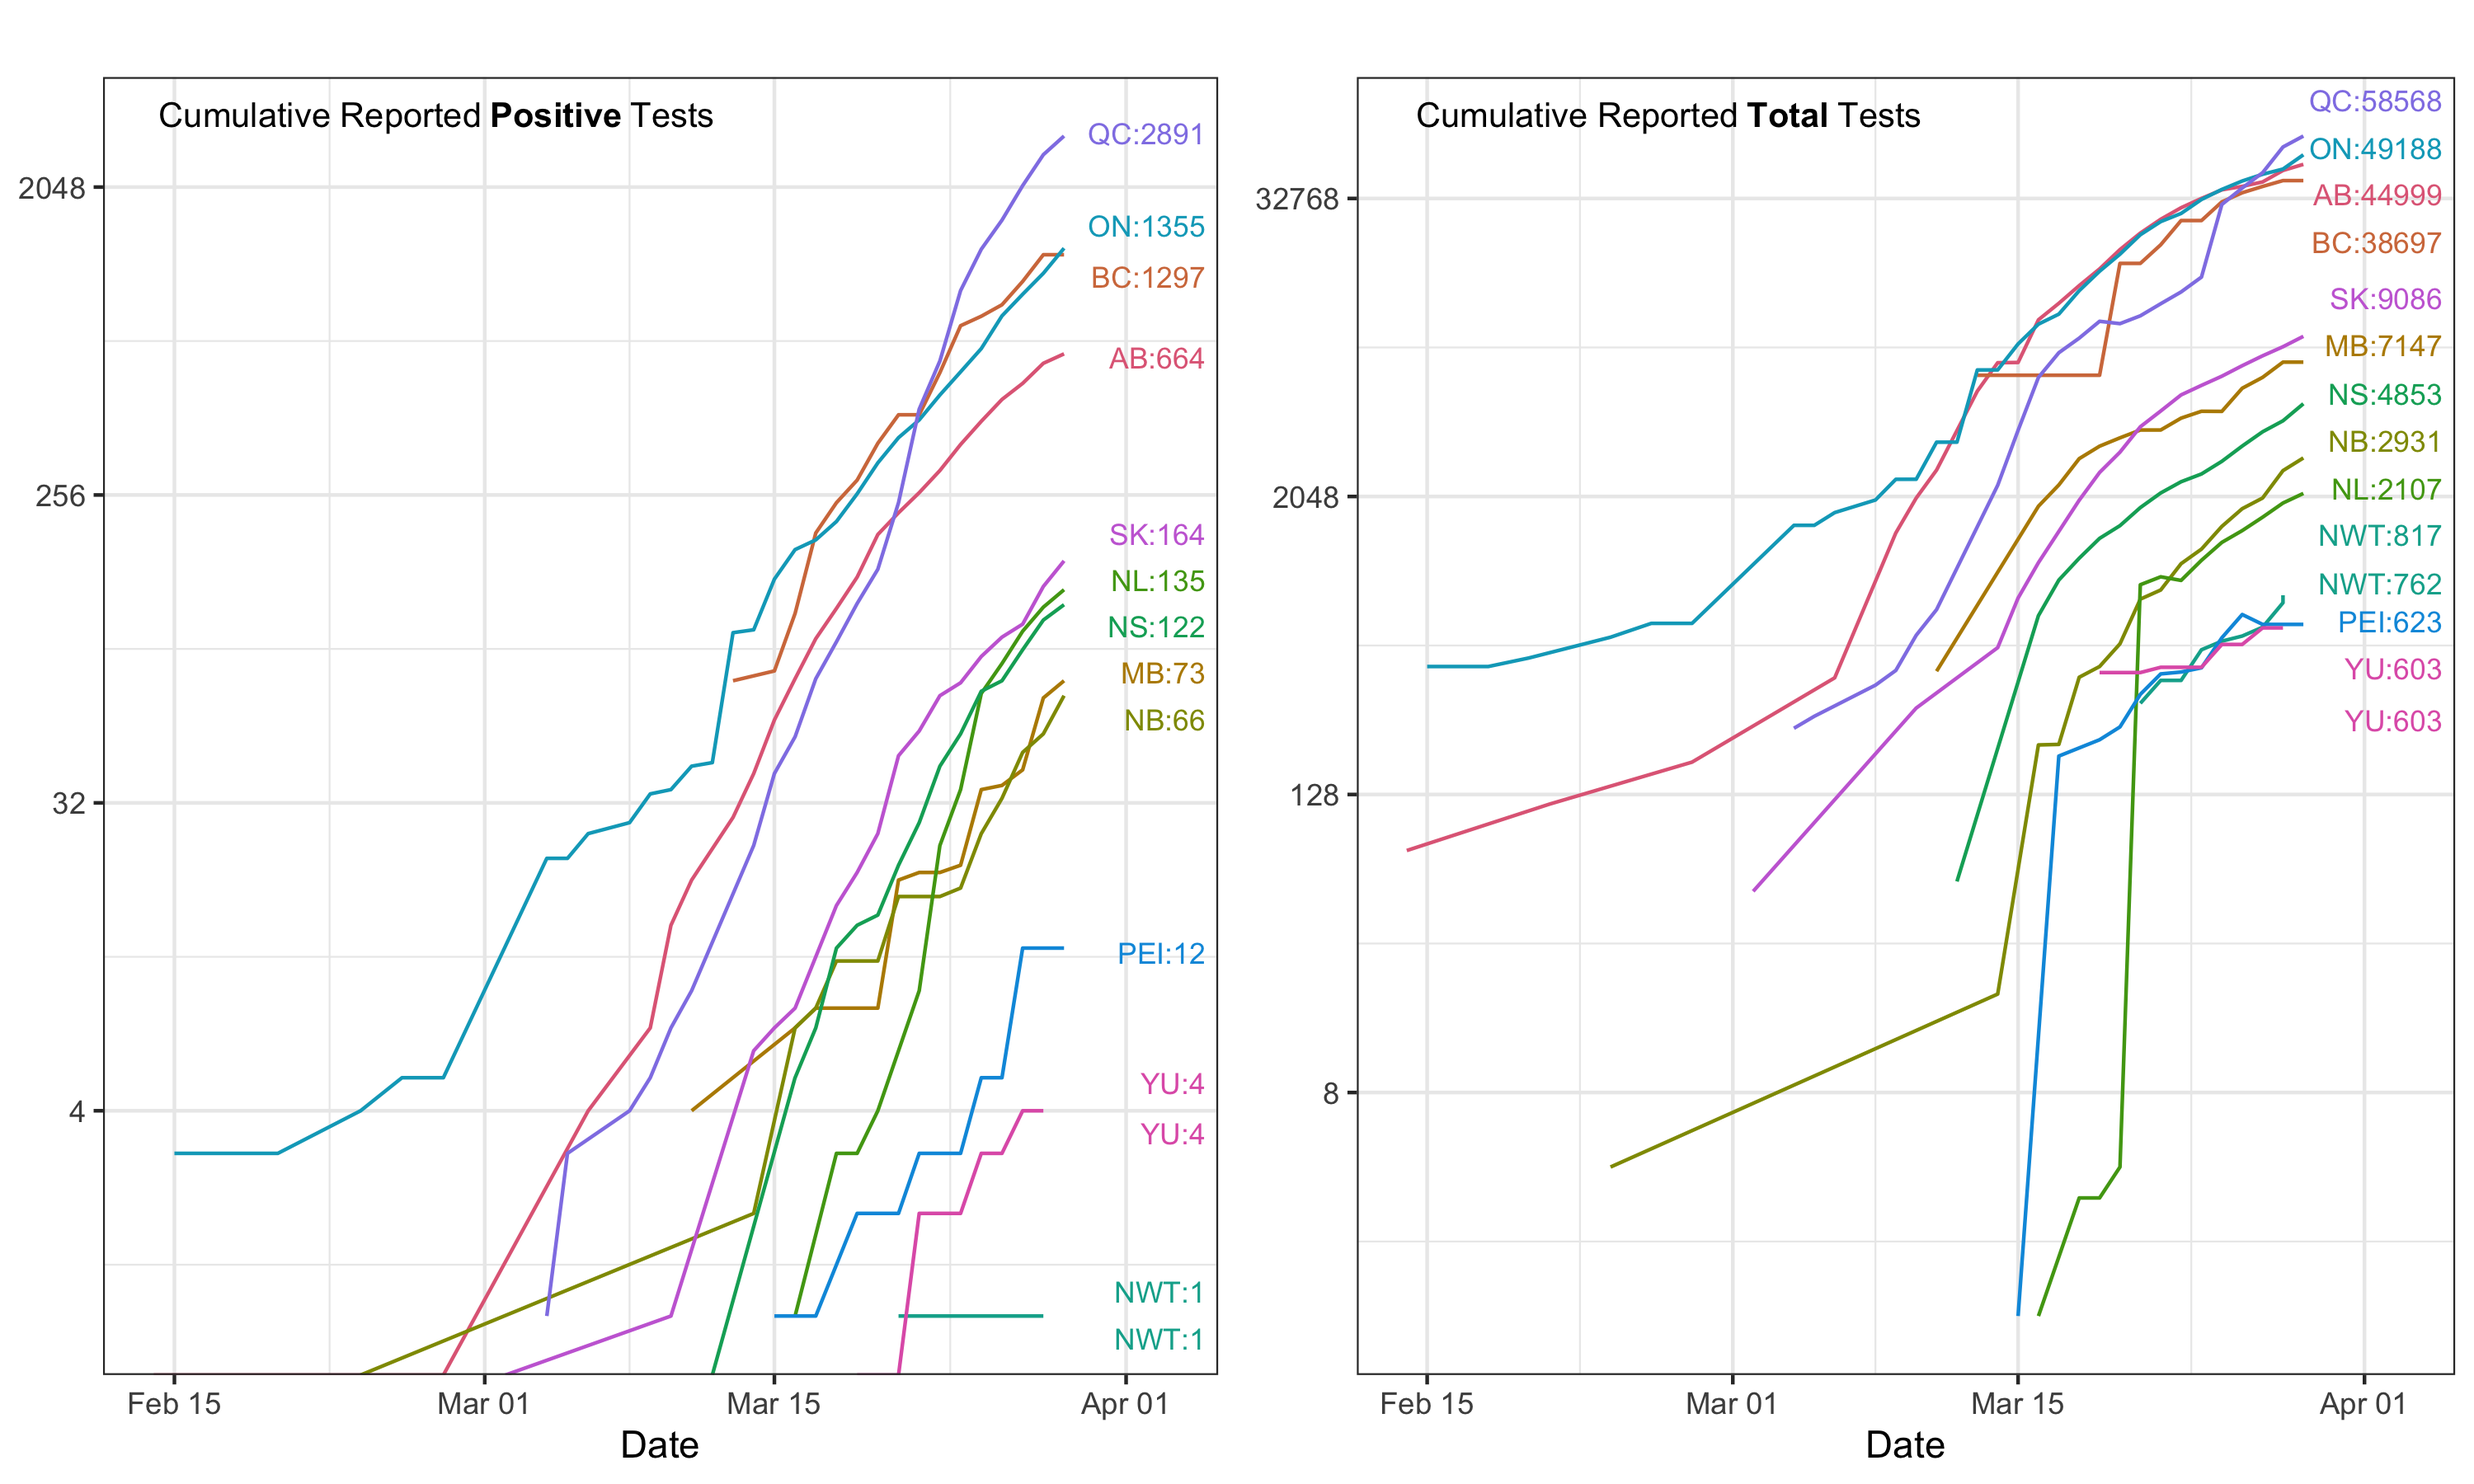
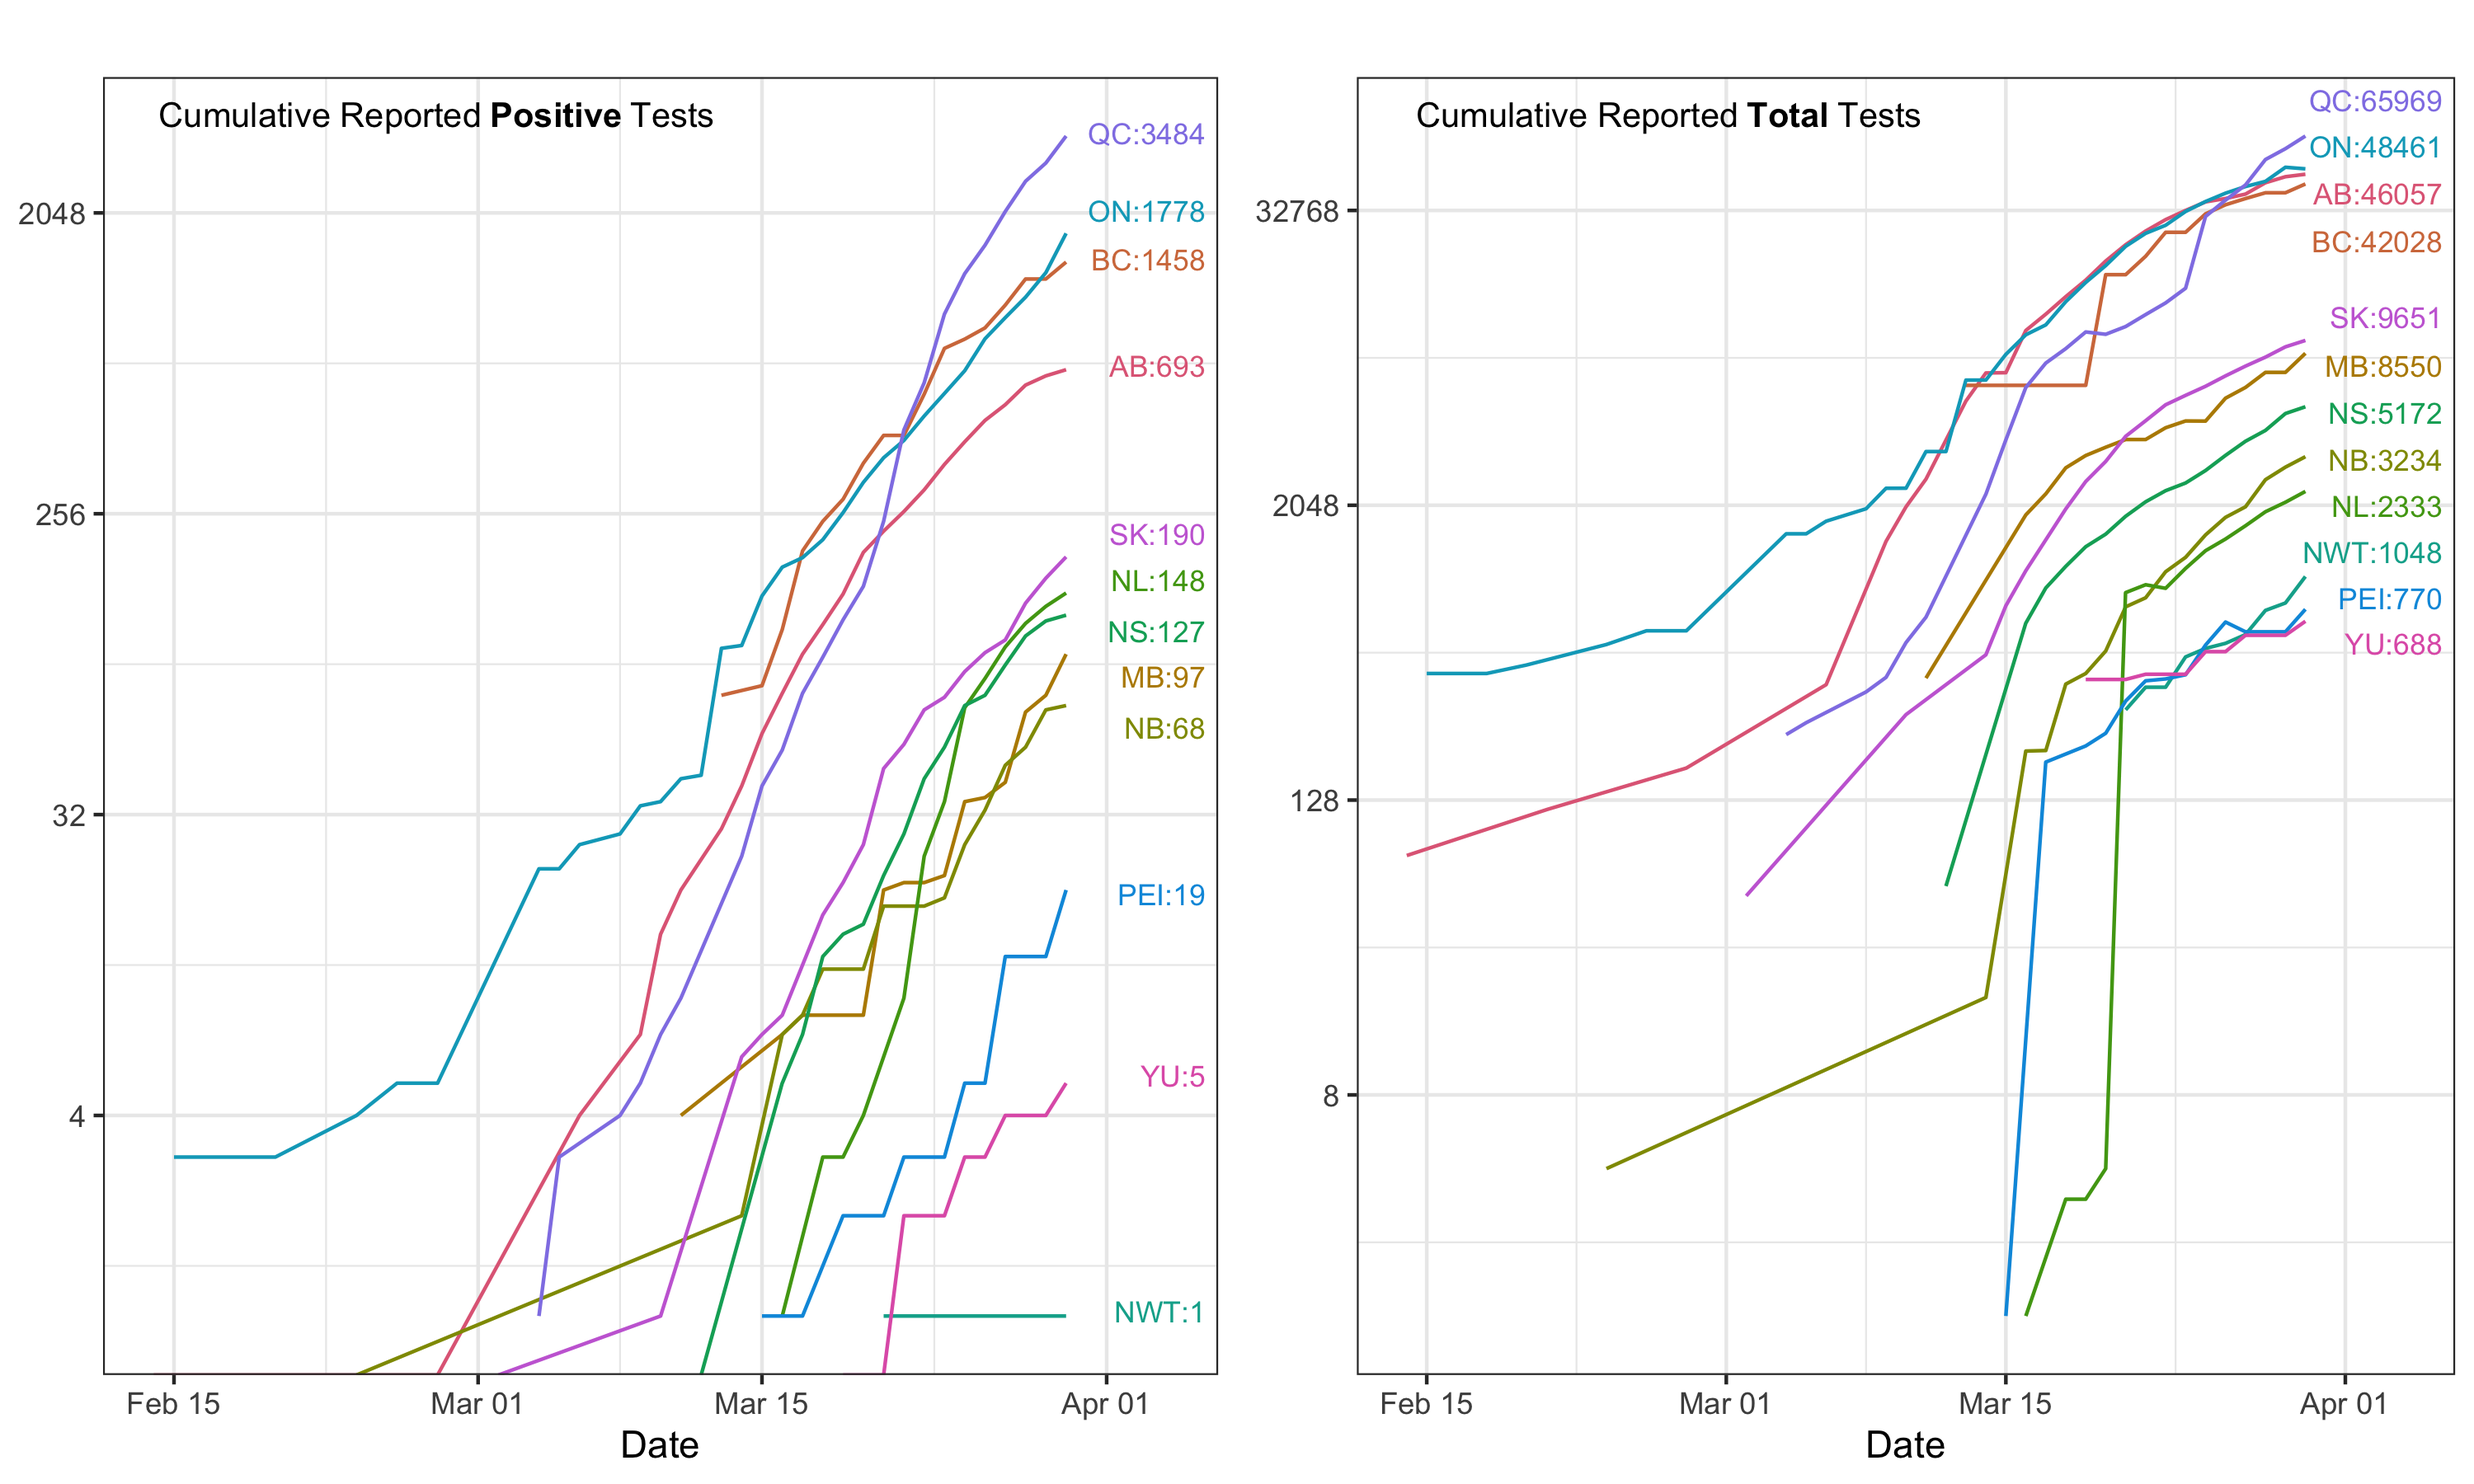
March 30th update

diff --git a/README.md b/README.md
@@ -1,6 +1,6 @@
 This is a public open-resource page for the COVID19 testing data for Canada. 
 
-_last updated: March 29th 20:17 Toronto time_
+_last updated: March 30th 22:58 Toronto time_
 
 ## COVID19 Testing Data
 
